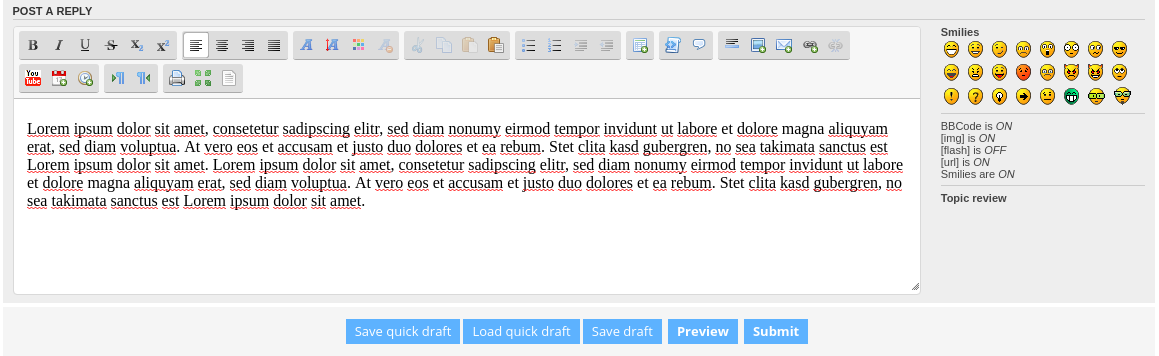
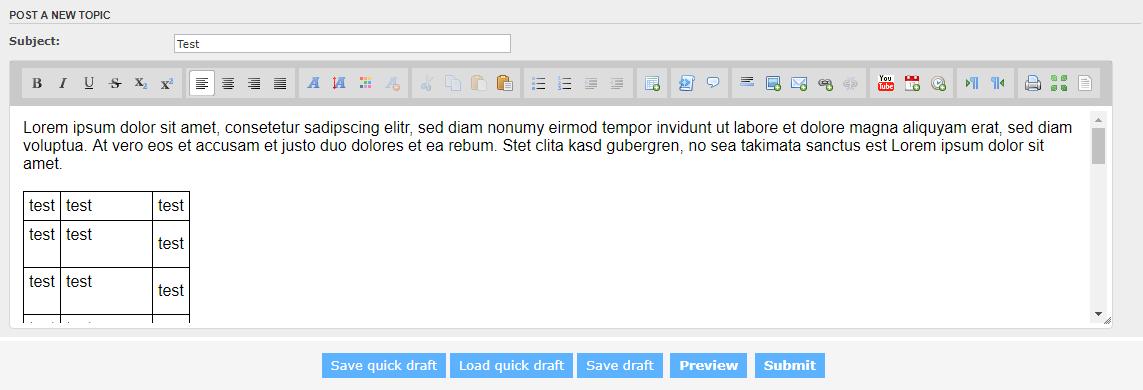
[Update 1.8.0] Style improvements with BBCode-bar / updated example picture

diff --git a/cosmo/sceditor/styles/all/template/js/themes/default.min.css b/cosmo/sceditor/styles/all/template/js/themes/default.min.css
@@ -347,25 +347,20 @@ div.sceditor-more-emoticons {
 }
 div.sceditor-toolbar {
     overflow: hidden;
-    padding: 3px 5px 2px;
-    background: #f7f7f7;
-    border-bottom: 1px solid silver;
-    line-height: 0;
-    text-align: left;
+    padding: 5px 2px 2px 2px;
+    background: rgba(142, 142, 142, 0.48);
+    text-align: center;
     -webkit-user-select: none;
     -moz-user-select: none;
     -ms-user-select: none;
     user-select: none;
-    border-radius: 3px 3px 0 0;
     background-clip: padding-box
 }
 div.sceditor-group {
     display: inline-block;
     background: #ddd;
-    margin: 1px 5px 1px 0;
-    padding: 1px;
-    border-bottom: 1px solid #aaa;
-    border-radius: 3px;
+    margin: 2px;
+    padding: 2.31px;
     background-clip: padding-box
 }
 .ie6 div.sceditor-group,
@@ -470,7 +465,7 @@ div.sceditor-group {
     margin: -15px 0px;
 }
 #message-box div.sceditor-container textarea {
-    min-width: 0px;
+    min-width: 50px;
     width: 99% !important;
     margin-left: 0.5%;
 }

diff --git a/cosmo/sceditor/styles/all/template/event/overall_footer_after.html b/cosmo/sceditor/styles/all/template/event/overall_footer_after.html
@@ -273,7 +273,7 @@
                         _sceInstance.sourceMode(true);
                     });
                 }
-
+				
 				// Initialize the availability of the SCEditor source button
 				_internalMethods.sourceButton.init();
 				<!-- IF S_BBCODE_ALLOWED -->
